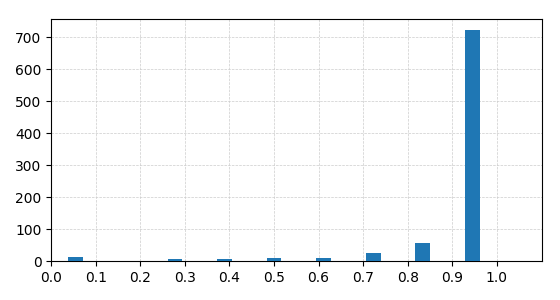
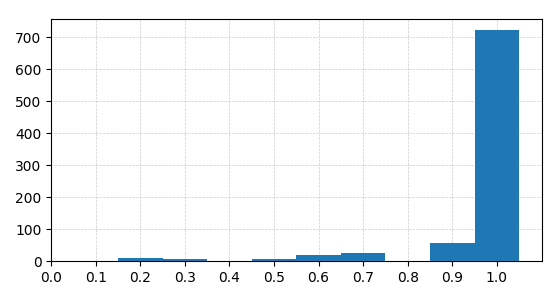
correcting graph params

diff --git a/src/graph/Width_Height_Ratio_Graph.py b/src/graph/Width_Height_Ratio_Graph.py
@@ -1,0 +1,41 @@
+import plotly.tools as tls
+import pandas as pd
+import matplotlib.pyplot as plt
+import numpy as np
+import seaborn as sns
+
+
+class Width_Height_Ratio_Graph:
+    count_tables = []
+
+    def __init__(self, dbconnector):
+        self.dbconnector = dbconnector
+        self.width_height_ratio_per_table = self._getWidthHeightRatios()
+
+    def draw(self):
+        plt.clf()
+        plt.cla()
+        plt.figure(figsize=[5.6, 3])
+        plt.xlim([0, 5])
+
+       # plt.xticks(np.arange(0, 2, step=0.2))
+        plt.grid(color='#cccccc', linestyle='--', linewidth=0.5, zorder=0)
+        sns.distplot(self.width_height_ratio_per_table, bins='auto', hist=True, kde=False,
+                     hist_kws={'zorder': 3, 'alpha': 1.0})
+        plt.tight_layout()
+
+        # plt.show()
+        plt.savefig('images/width_height_ratio_over_tables.png')
+
+    def _getWidthHeightRatios(self):
+        sql = '''select 
+            ROUND(
+            CAST(last_column - first_column +1 as float)
+            /
+            CAST (last_row-first_row +1 as float) 
+            , 1)
+            from tables
+            '''
+        result = self.dbconnector.execute(sql)
+        print(pd.DataFrame(result))
+        return pd.DataFrame(result)

diff --git a/src/graph/Coverage_Graph.py b/src/graph/Coverage_Graph.py
@@ -9,25 +9,25 @@ class Coverage_Graph:
 
     def __init__(self, dbconnector):
         self.dbconnector = dbconnector
-        self.density_per_table = self._getDensityValues()
+        self.coverage_per_table = self._getCoverageValues()
 
     def draw(self):
         plt.clf()
         plt.cla()
         plt.figure(figsize= [5.6, 3])
-        plt.xlim([0,1.1])
+        #plt.xlim([0,1.1])
 
         plt.xticks([ 0, .1, .2, .3, .4, .5, .6, .7, .8, .9, 1])
         plt.grid(color='#cccccc', linestyle='--', linewidth=0.5, zorder=0)
-        sns.distplot(self.density_per_table, bins=9, hist=True, kde=False,
-                     hist_kws={'zorder': 3, 'rwidth': 0.3, 'alpha': 1.0})
+        sns.distplot(self.coverage_per_table, bins=10, hist=True, kde=False,
+                     hist_kws={'zorder': 3,  'alpha': 1.0, 'align': 'right'})
         plt.tight_layout()
 
         #plt.show()
         plt.savefig('images/coverage_over_tables.png')
 
 
-    def _getDensityValues(self):
+    def _getCoverageValues(self):
         sql = '''with all_visible_filled_cells as (
             select count(*) as all_visible_filled, sheet_name, file_name
             from cell_annotations

diff --git a/src/graph/GraphManager.py b/src/graph/GraphManager.py
@@ -4,6 +4,7 @@ from src.graph.Sheets_With_Label_Graph import Sheets_With_Label_Graph
 from src.graph.Visible_Cells_per_Table_Graph import Visible_Cells_per_Table_Graph
 from src.graph.Density_Graph import Density_Graph
 from src.graph.Coverage_Graph import Coverage_Graph
+from src.graph.Width_Height_Ratio_Graph import Width_Height_Ratio_Graph
 
 class GraphManager:
     graphsForDrawing = []
@@ -18,9 +19,10 @@ class GraphManager:
         hiddenCellsGraph = Visible_Cells_per_Table_Graph(dbconnector)
         densityGraph = Density_Graph(dbconnector)
         coverageGraph = Coverage_Graph(dbconnector)
+        widthHeightGraph = Width_Height_Ratio_Graph(dbconnector)
 
 
-        self.graphsForDrawing = [ tableCountGraph, labelCountGraph, hiddenCellsGraph, densityGraph, coverageGraph ]
+        self.graphsForDrawing = [ tableCountGraph, labelCountGraph, hiddenCellsGraph, densityGraph, coverageGraph, widthHeightGraph ]
 
     def draw(self):
         for graph in self.graphsForDrawing:

diff --git a/src/graph/Table_per_Sheet_Graph.py b/src/graph/Table_per_Sheet_Graph.py
@@ -15,14 +15,13 @@ class Table_per_Sheet_Graph:
         plt.clf()
         plt.cla()
         plt.figure(figsize=[5.6, 3])
-
-        num_bins = range(0,11)
-
+        plt.xlim([0, 10])
         plt.grid(color='#cccccc', linestyle='--', linewidth=0.5, zorder=0)
-        sns.distplot(self.tables_per_sheet, bins=num_bins, hist=True, kde=False, hist_kws={'align':'left', 'zorder': 3, 'rwidth': 0.8, 'alpha':1.0 })
+        sns.distplot(self.tables_per_sheet, bins=124, hist=True, kde=False,
+                     hist_kws={ 'zorder': 3,  'alpha':1.0, 'align': 'left' })
         plt.tight_layout()
 
-        plt.xlim([0,10])
+
         plt.xticks(np.arange(0, 10, 1.0))
         #plt.show()
         plt.savefig('images/table_count_per_file.png')

diff --git a/src/graph/Density_Graph.py b/src/graph/Density_Graph.py
@@ -16,11 +16,13 @@ class Density_Graph:
         plt.cla()
         plt.figure(figsize= [5.6, 3])
 
-        plt.xticks([max(self.density_per_table)-1])
-        #plt.xlim(1000000000)
+        plt.xticks(np.arange(0,20, step = 1))
+        #plt.tick_params(axis='x', colors='#555555', labelsize='large')
+
+        plt.xlim([0,20])
 
         plt.grid(color='#cccccc', linestyle='--', linewidth=0.5, zorder=0)
-        sns.distplot(self.density_per_table, bins=1000, hist=True, kde=False, hist_kws={'zorder': 3, 'rwidth': 2, 'alpha':1.0})
+        sns.distplot(self.density_per_table,  bins=1900, hist=True, kde=False, hist_kws={'zorder': 3, 'rwidth': 0.3, 'alpha':1.0, 'align':'left'})
         plt.tight_layout()
 
         #plt.show()

diff --git a/src/graph/Sheets_With_Label_Graph.py b/src/graph/Sheets_With_Label_Graph.py
@@ -24,6 +24,7 @@ class Sheets_With_Label_Graph:
         y_pos = np.arange(len(bars))
 
 
+        plt.ylim([0,500])
         plt.xticks(y_pos, bars, rotation=40, horizontalalignment='right')
         plt.grid(color='#cccccc', linestyle='--', linewidth=0.5, zorder=0)
         ax = plt.bar(y_pos, height, zorder=3)
@@ -41,7 +42,7 @@ class Sheets_With_Label_Graph:
         plt.tight_layout()
 
         # Show graphic
-        plt.savefig('images/labels_per_spreadsheet.png')
+        plt.savefig('images/spreadsheets_with_label.png')
 
 
     def _getLabelCount(self):

diff --git a/src/graph/Visible_Cells_per_Table_Graph.py b/src/graph/Visible_Cells_per_Table_Graph.py
@@ -20,7 +20,8 @@ class Visible_Cells_per_Table_Graph:
         plt.xticks([0, .1, .2, .3, .4, .5, .6, .7, .8, .9, 1])
 
         plt.grid(color='#cccccc', linestyle='--', linewidth=0.5, zorder=0)
-        sns.distplot(self.ratio_filled_cells_per_table, bins=100, hist=True, kde=False, hist_kws={'zorder': 3, 'rwidth': 2, 'alpha':1.0})
+        sns.distplot(self.ratio_filled_cells_per_table, bins=10, hist=True, kde=False,
+                     hist_kws={'zorder': 3, 'alpha':1.0, 'align': 'right'})
         plt.tight_layout()
 
         #plt.show()
